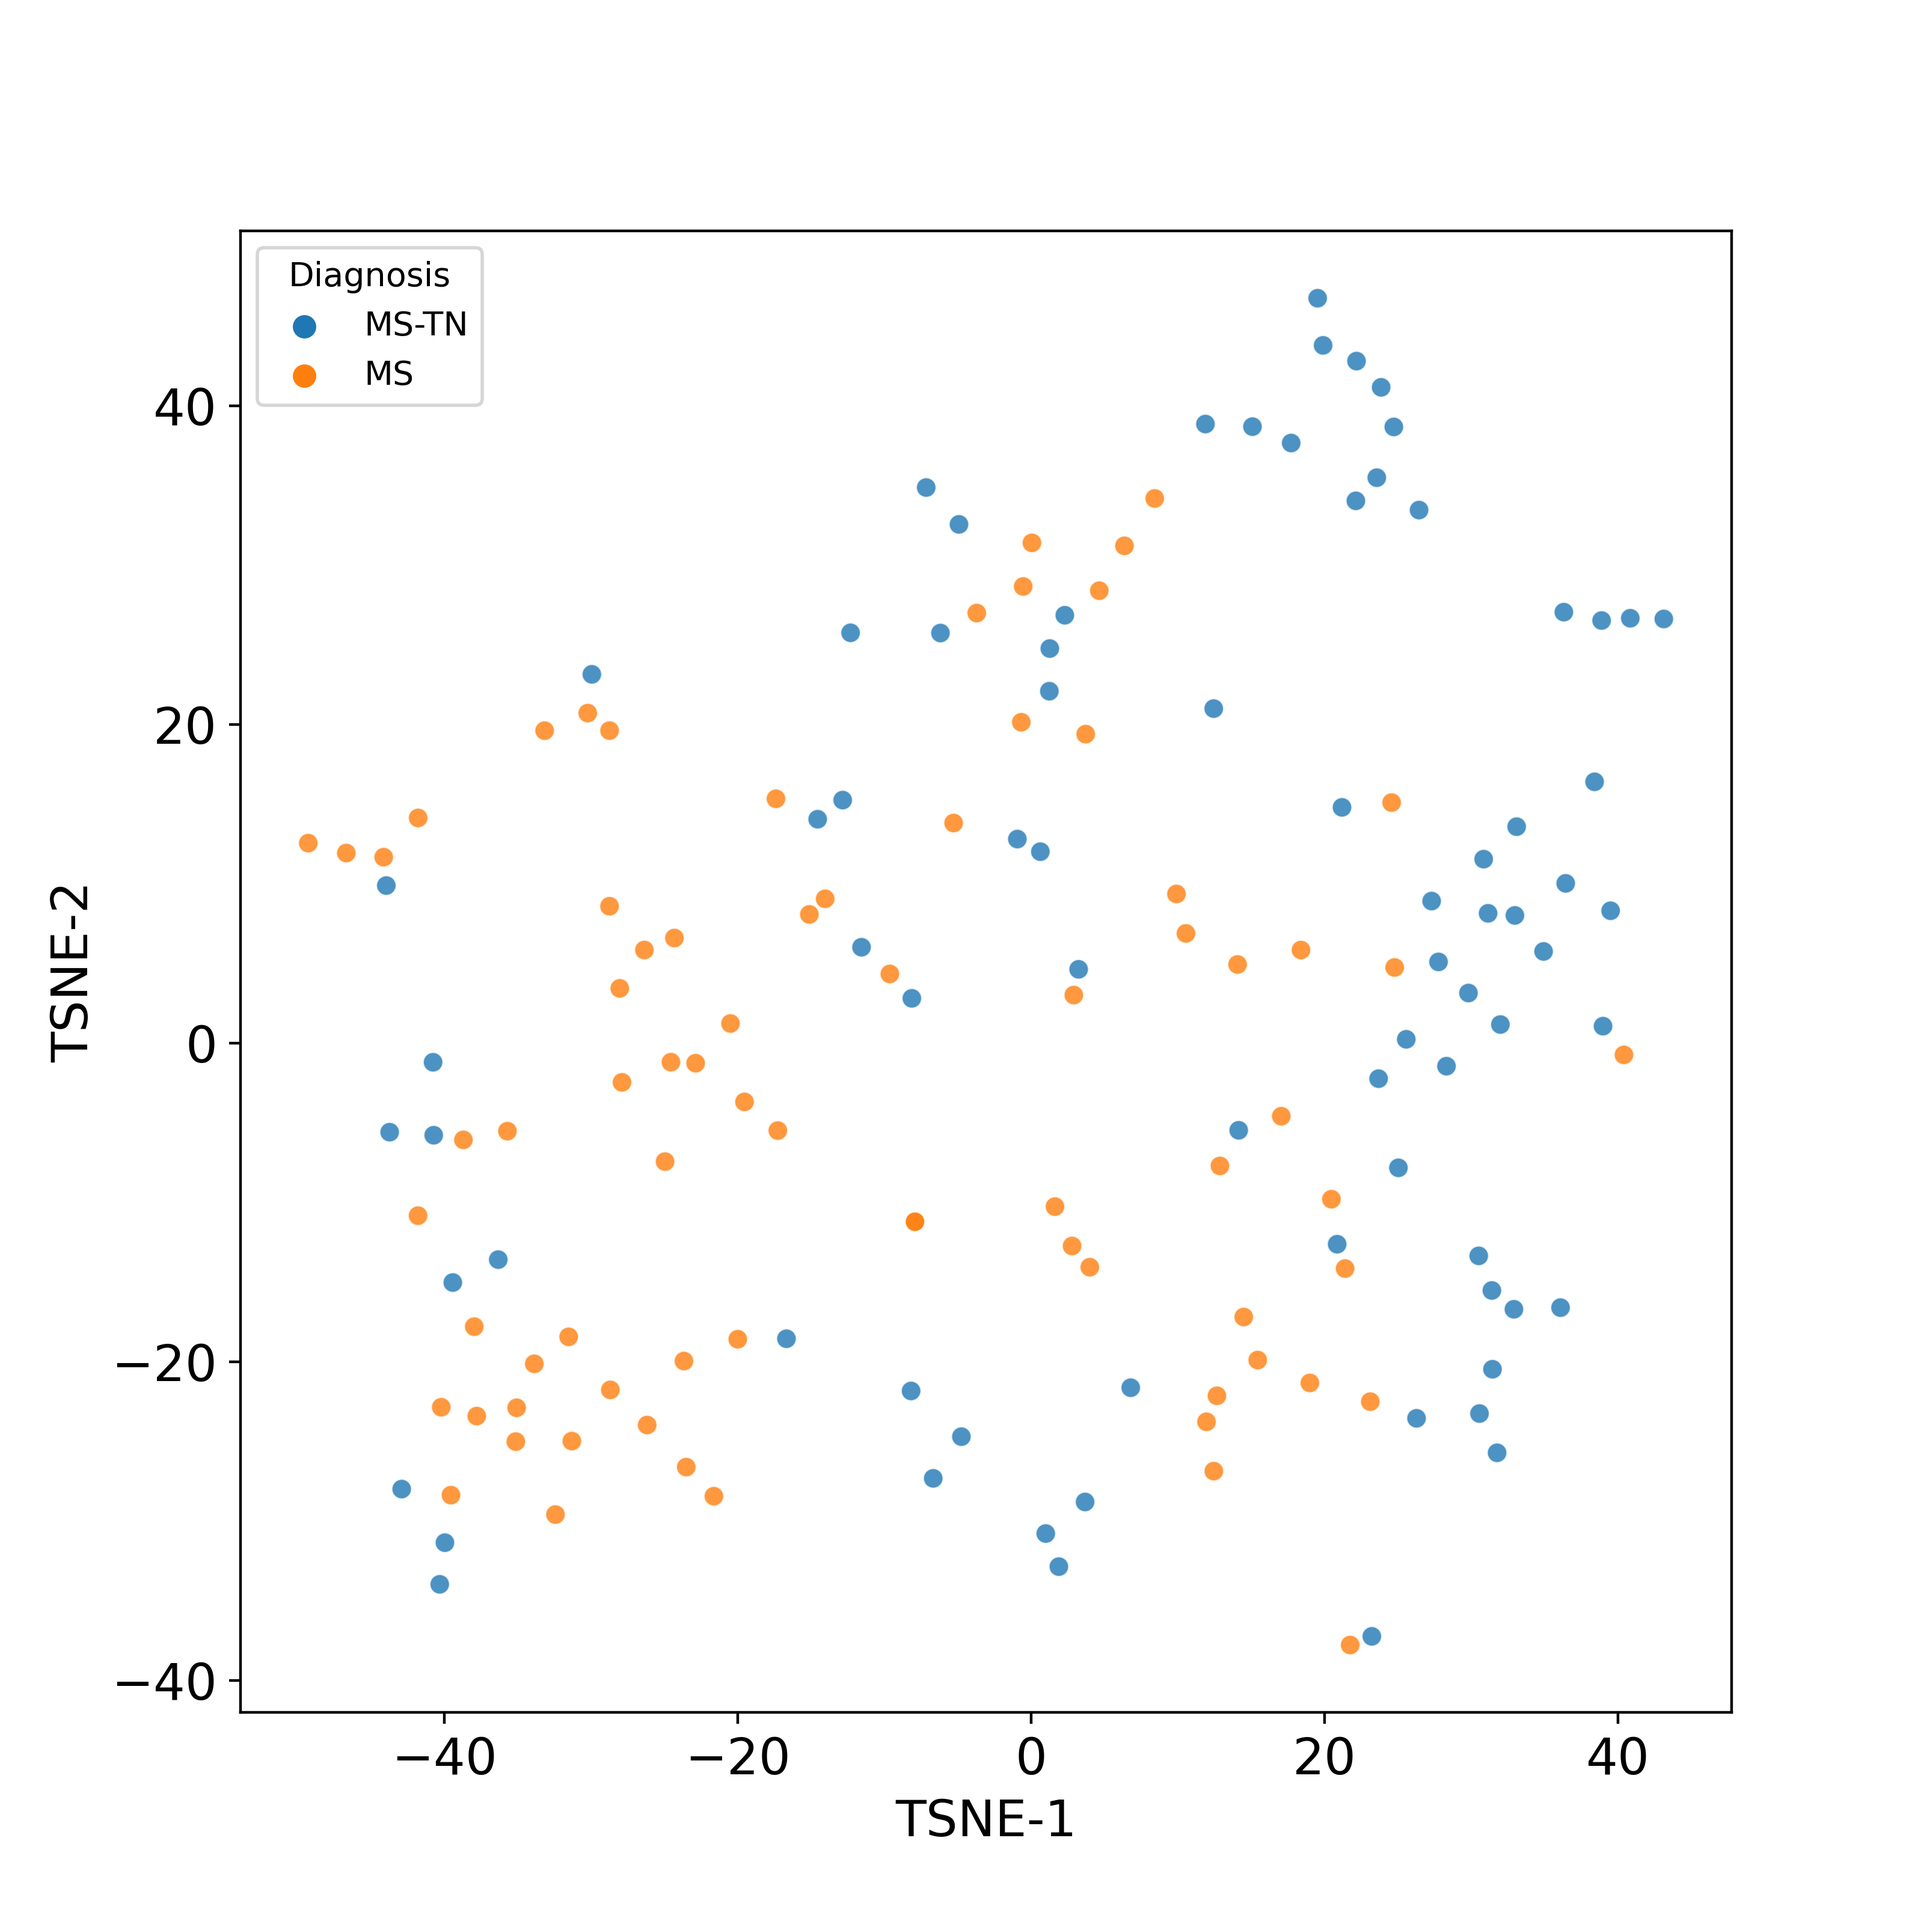
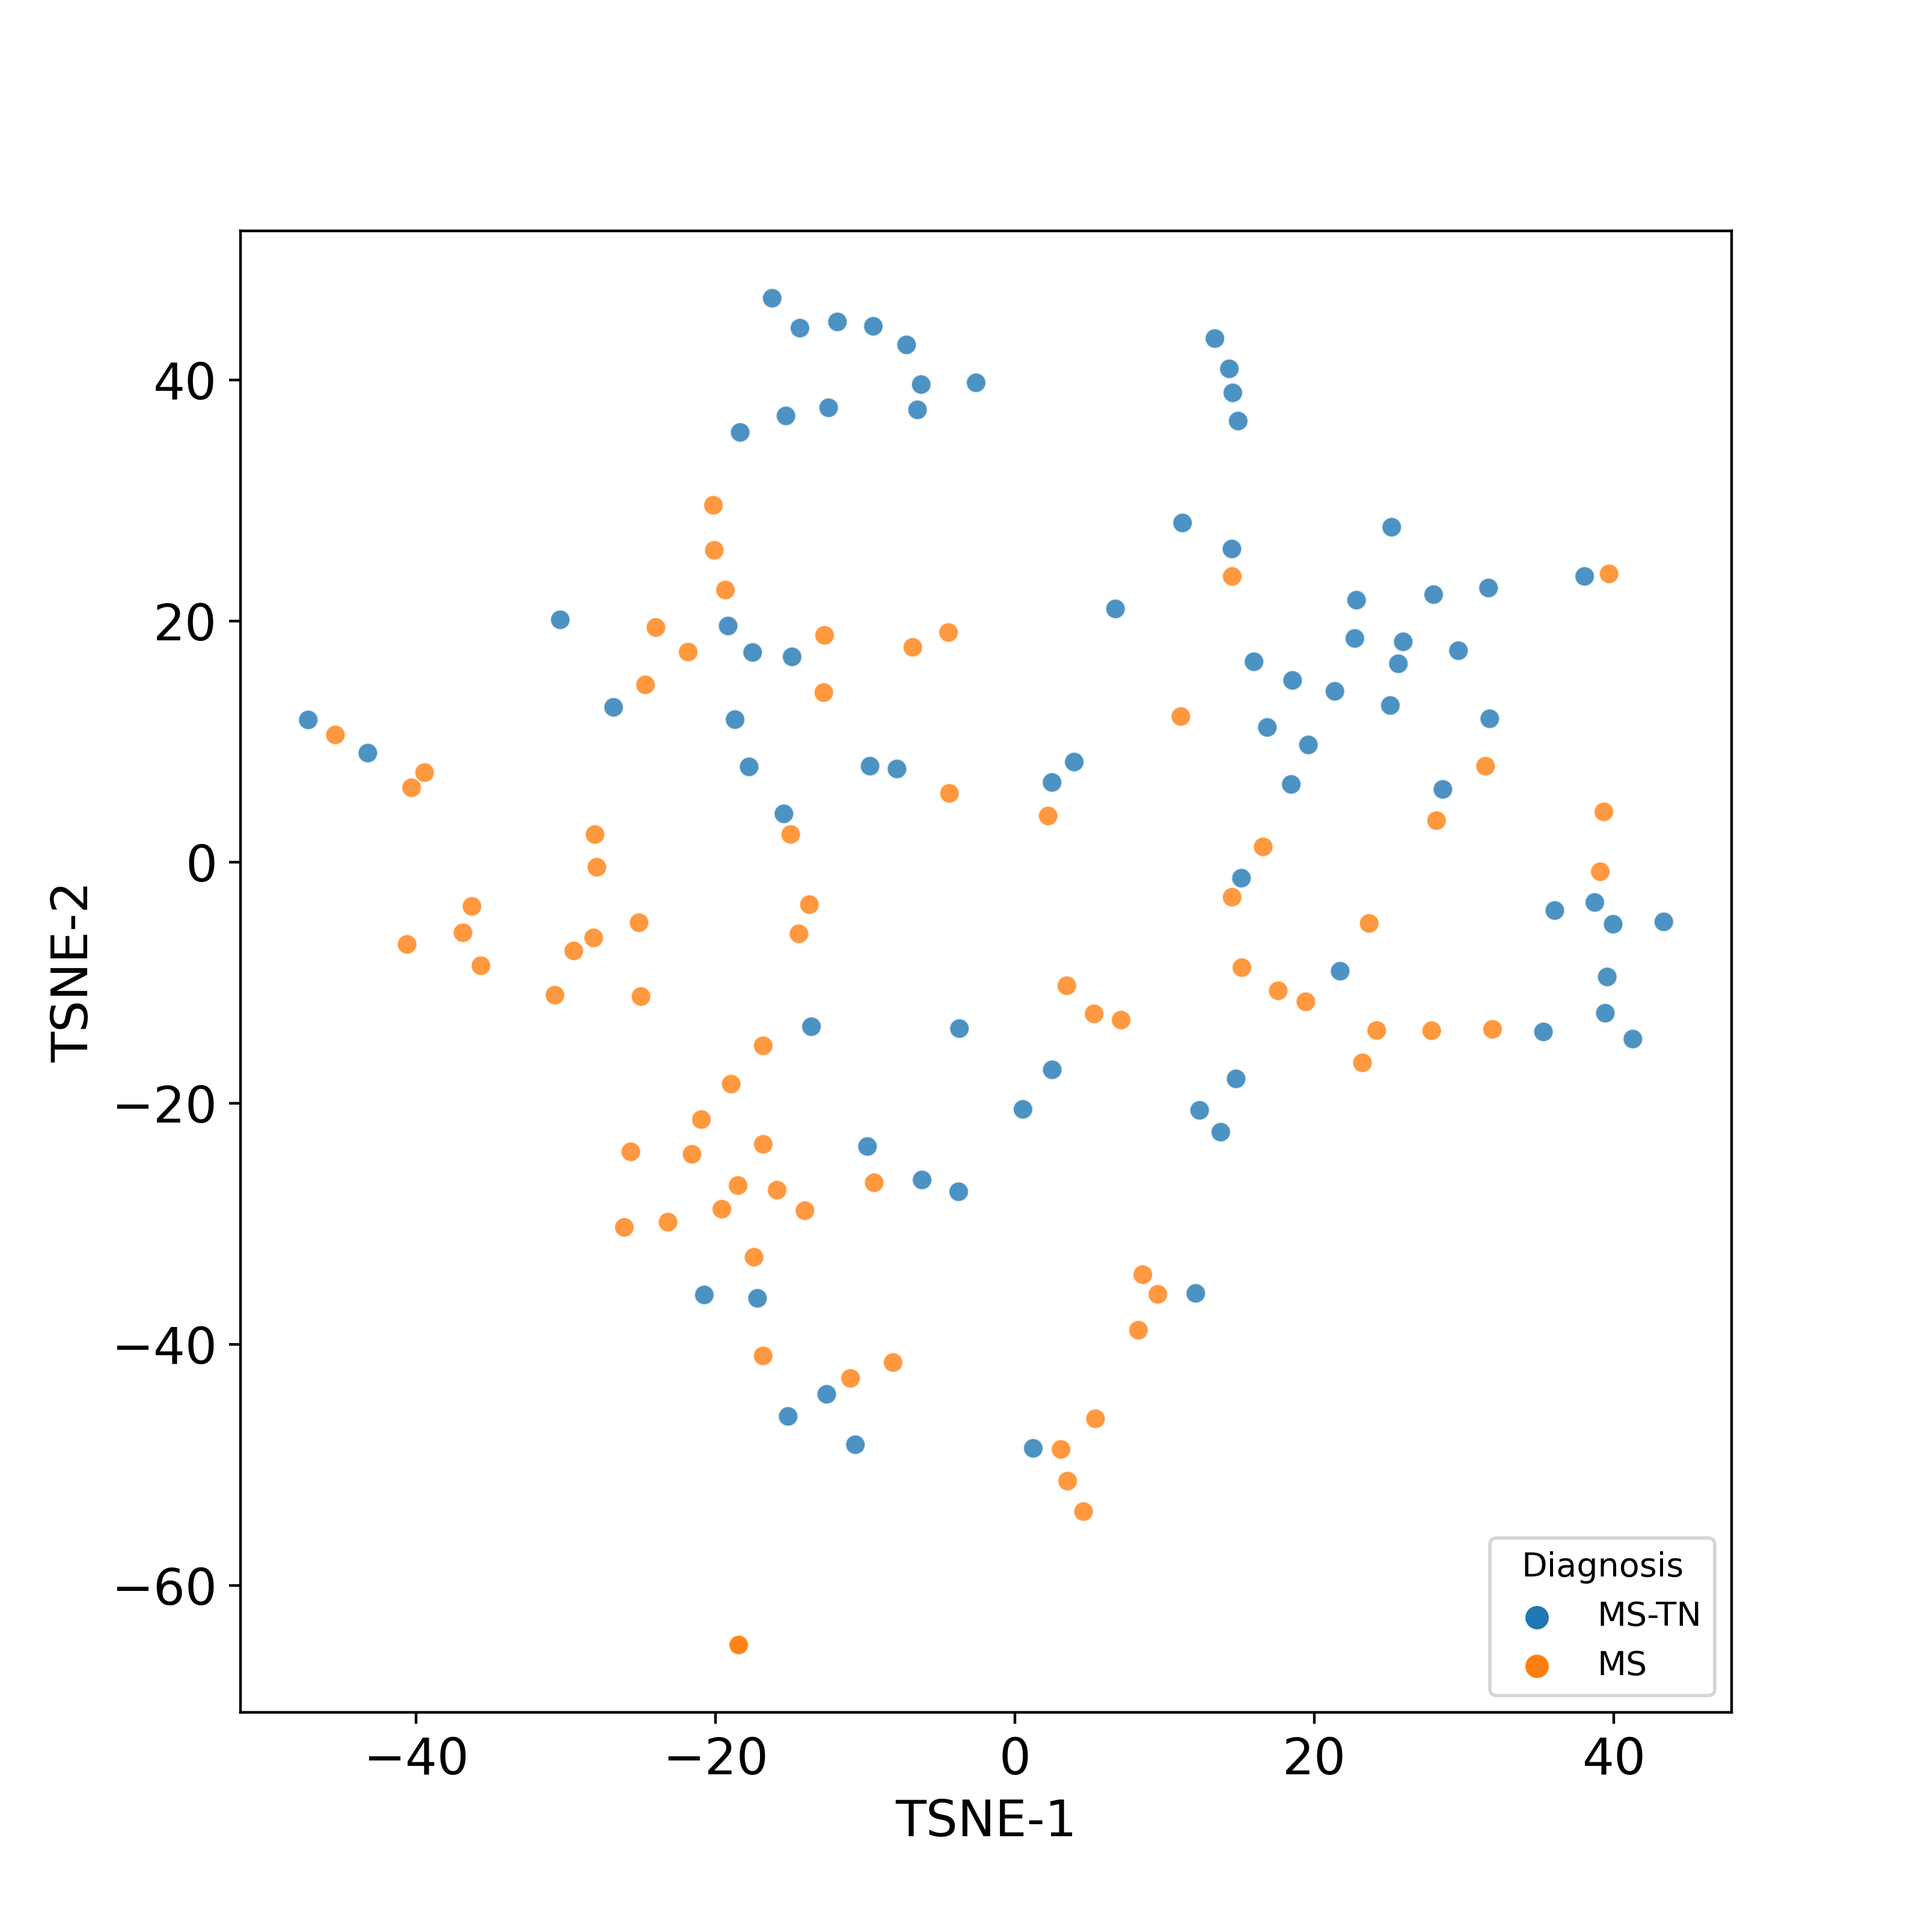
updated

diff --git a/tsne.py b/tsne.py
@@ -48,7 +48,7 @@ def main():
     morphological_data = morphological_data.dropna(axis=1, how='any')
     # configure tsne model
     print("initializing...")
-    tsne = TSNE(n_components=2, perplexity=4, random_state=20)
+    tsne = TSNE(n_components=2, perplexity=4, random_state=1)
     tsne_data = tsne.fit_transform(morphological_data)
 
     # create dataframe
@@ -65,7 +65,7 @@ def main():
     # plot
     plt.figure(figsize=(8,8))
     sns.scatterplot(tsne_df, x="TSNE-1", y="TSNE-2", hue='diagnosis', sizes=10, alpha=0.8)
-    plt.legend(loc='upper left', title='Diagnosis', fontsize='medium')
+    plt.legend(loc='lower right', title='Diagnosis', fontsize='medium')
     plt.tick_params(axis='both', which='major', labelsize=15)
     plt.xlabel('TSNE-1', fontsize=15)
     plt.ylabel('TSNE-2', fontsize=15)
@@ -75,23 +75,23 @@ def main():
     fig.subplots_adjust(hspace=0.3, wspace=0.3)
 
     sns.scatterplot(ax=ax[1, 0], data=tsne_df, x="TSNE-1", y="TSNE-2", hue='duration_categories', hue_order = ['<5', '5-10', '10-15', '10-15', '15-20', '>20'], sizes=5, alpha=0.8)
-    ax[1, 0].legend(loc='upper left', title='Duration of MS', fontsize='small')
+    ax[1, 0].legend(loc='lower right', title='Duration of MS', fontsize='small')
     ax[1, 0].tick_params(axis='both', which='major', labelsize=15)
     # change size of axis subtitles TSNE-1 and TSNE-2
     ax[1, 0].set_xlabel('TSNE-1', fontsize=15)
     ax[1, 0].set_ylabel('TSNE-2', fontsize=15)
     sns.scatterplot(ax=ax[0, 0], data=tsne_df, x="TSNE-1", y="TSNE-2", hue='sex', palette=['#4FB6D5', '#EC5C71'], sizes=5, alpha=0.8)
-    ax[0, 0].legend(loc='upper left', title='Sex', fontsize='small')
+    ax[0, 0].legend(loc='lower right', title='Sex', fontsize='small')
     ax[0, 0].tick_params(axis='both', which='major', labelsize=15)
     ax[0, 0].set_xlabel('TSNE-1', fontsize=15)
     ax[0, 0].set_ylabel('TSNE-2', fontsize=15)
     sns.scatterplot(ax=ax[0, 1], data=tsne_df, x="TSNE-1", y="TSNE-2", hue='scanner', sizes=5, alpha=0.8)
-    ax[0, 1].legend(loc='upper left', title='Scanner', fontsize='small')
+    ax[0, 1].legend(loc='lower right', title='Scanner', fontsize='small')
     ax[0, 1].tick_params(axis='both', which='major', labelsize=15)
     ax[0, 1].set_xlabel('TSNE-1', fontsize=15)
     ax[0, 1].set_ylabel('TSNE-2', fontsize=15)
     sns.scatterplot(ax=ax[1, 1], data=tsne_df, x="TSNE-1", y="TSNE-2", hue='age', sizes=5, alpha=0.8)
-    ax[1, 1].legend(loc='upper left', title='Age', fontsize='small')
+    ax[1, 1].legend(loc='lower right', title='Age', fontsize='small')
     ax[1, 1].tick_params(axis='both', which='major', labelsize=15)
     ax[1, 1].set_xlabel('TSNE-1', fontsize=15)
     ax[1, 1].set_ylabel('TSNE-2', fontsize=15)
